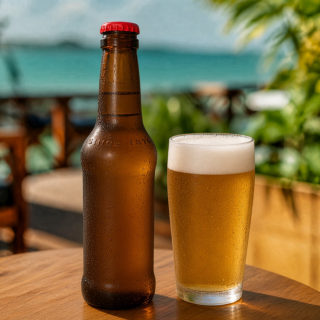
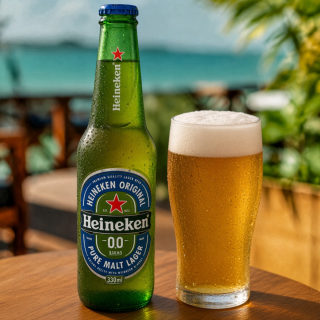
Inclui Corona e Amstel 600ml e refaz Petra, Devassa e zero alcool com rotulos reais

diff --git a/online/21st/index.html b/online/21st/index.html
@@ -21,7 +21,7 @@
       href="https://fonts.googleapis.com/css2?family=Oswald:wght@500;600;700&family=Source+Sans+3:wght@400;500;600;700&display=swap"
       rel="stylesheet"
     />
-    <link rel="stylesheet" href="styles.css?v=1.1.26-online" />
+    <link rel="stylesheet" href="styles.css?v=1.1.27-online" />
   </head>
   <body>
     <!-- 21st component: Floating Food Hero (id: 8435, ravikatiyar162) -->
@@ -87,6 +87,6 @@
       </div>
     </div>
 
-    <script src="app.js?v=1.1.26-online"></script>
+    <script src="app.js?v=1.1.27-online"></script>
   </body>
 </html>

diff --git a/online/index.html b/online/index.html
@@ -21,7 +21,7 @@
       href="https://fonts.googleapis.com/css2?family=Oswald:wght@500;600;700&family=Source+Sans+3:wght@400;500;600;700&display=swap"
       rel="stylesheet"
     />
-    <link rel="stylesheet" href="styles.css?v=1.1.26-online" />
+    <link rel="stylesheet" href="styles.css?v=1.1.27-online" />
   </head>
   <body>
     <header class="hero" id="topo">
@@ -83,6 +83,6 @@
       </div>
     </div>
 
-    <script src="app.js?v=1.1.26-online"></script>
+    <script src="app.js?v=1.1.27-online"></script>
   </body>
 </html>

diff --git a/README.md b/README.md
@@ -13,12 +13,12 @@ Cardápio online + PDF com **fonte única de dados** em `data/menu-data.json`.
 
 ## Status do cardápio
 
-_Métricas atualizadas automaticamente em 2026-09-20 22:09._
+_Métricas atualizadas automaticamente em 2026-09-20 22:44._
 
-- **160** itens em **18** categorias
-- **160** fotos em `assets/fotos/` (completo)
+- **162** itens em **18** categorias
+- **162** fotos em `assets/fotos/` (completo)
 - PDF do site: `online/cardapio-prainha-rooftop.pdf` (4.02 MB)
-- Versão dos dados: `1.1.26-online`
+- Versão dos dados: `1.1.27-online`
 
 ## Estrutura
 
